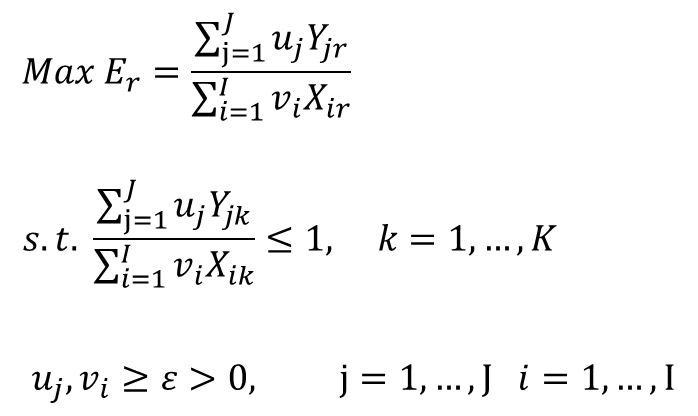
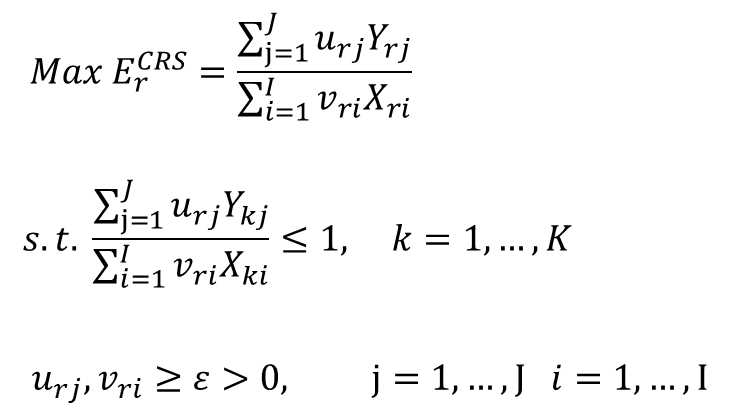
alter

diff --git a/CRS_Model/CRS_code.py b/CRS_Model/CRS_code.py
@@ -1,33 +1,34 @@
 from gurobipy import*
-DMU=['A','B','C','D','E']
-E={}
+
+E={}    
+I=2
+O=3
+#X、Y為各DMU的產出與投入
+DMU,X,Y=multidict({('A'):[[11,14],[2,2,1]],('B'):[[7,7],[1,1,1]],('C'):[[11,14],[1,1,2]],('D'):[[14,14],[2,3,1]],('E'):[[14,15],[3,2,3]]})
+
 for r in DMU:
-    
-    I=2
-    O=3
-    #X、Y為各DMU的產出與投入
-    DMU,X,Y=multidict({('A'):[[11,14],[2,2,1]],('B'):[[7,7],[1,1,1]],('C'):[[11,14],[1,1,2]],('D'):[[14,14],[2,3,1]],('E'):[[14,15],[3,2,3]]})
     
     v,u={},{}
 
     m=Model("CRS_model")
     
     for i in range(I):
-        v[i]=m.addVar(vtype=GRB.CONTINUOUS,name="v_%d"%i,lb=0.0001)
+        v[r,i]=m.addVar(vtype=GRB.CONTINUOUS,name="v_%s%d"%(r,i),lb=0.0001)
     
     for j in range(O):
-        u[j]=m.addVar(vtype=GRB.CONTINUOUS,name="u_%d"%j,lb=0.0001)
+        u[r,j]=m.addVar(vtype=GRB.CONTINUOUS,name="u_%s%d"%(r,j),lb=0.0001)
     
     m.update()
     
-    m.setObjective(quicksum(u[j]*Y[r][j] for j in range(O)),GRB.MAXIMIZE)
+    m.setObjective(quicksum(u[r,j]*Y[r][j] for j in range(O)),GRB.MAXIMIZE)
         
-    m.addConstr(quicksum(v[i]*X[r][i] for i in range(I))==1)
+    m.addConstr(quicksum(v[r,i]*X[r][i] for i in range(I))==1)
     for k in DMU:
-        m.addConstr(quicksum(u[j]*Y[k][j] for j in range(O))-quicksum(v[i]*X[k][i] for i in range(I))<=0)
+        m.addConstr(quicksum(u[r,j]*Y[k][j] for j in range(O))-quicksum(v[r,i]*X[k][i] for i in range(I))<=0)
     
     m.optimize()
-    E[r]="The efficiency of DMU %s:%4.3g"%(r,m.objVal)
+    E[r]="The efficiency of DMU %s:%0.3g"%(r,m.objVal)
+
     
 for r in DMU:
     print (E[r])

diff --git a/VAS_Model/VRS_code.py b/VAS_Model/VRS_code.py
@@ -12,23 +12,23 @@ for r in DMU:
     
     v,u={},{}
     for i in range(I):
-        v[i]=m.addVar(vtype=GRB.CONTINUOUS,name="v_%d"%i)
+        v[r,i]=m.addVar(vtype=GRB.CONTINUOUS,name="v_%s%d"%(r,i))
     
     for j in range(O):
-        u[j]=m.addVar(vtype=GRB.CONTINUOUS,name="u_%d"%j)
-    u0=m.addVar(lb=-1000,vtype=GRB.CONTINUOUS)
+        u[r,j]=m.addVar(vtype=GRB.CONTINUOUS,name="u_%s%d"%(r,j))
+    u[0,r]=m.addVar(lb=-1000,vtype=GRB.CONTINUOUS)
     
     m.update()
     
-    m.setObjective(quicksum(u[j]*Y[r][j] for j in range(O))-u0,GRB.MAXIMIZE)
+    m.setObjective(quicksum(u[r,j]*Y[r][j] for j in range(O))-u[0,r],GRB.MAXIMIZE)
         
-    m.addConstr(quicksum(v[i]*X[r][i] for i in range(I))==1)
+    m.addConstr(quicksum(v[r,i]*X[r][i] for i in range(I))==1)
     for k in DMU:
-        m.addConstr(quicksum(u[j]*Y[k][j] for j in range(O))-quicksum(v[i]*X[k][i] for i in range(I))-u0 <=0)
+        m.addConstr(quicksum(u[r,j]*Y[k][j] for j in range(O))-quicksum(v[r,i]*X[k][i] for i in range(I))-u[0,r] <=0)
     
     m.optimize()
     
-    E[r]="The efficiency of DMU %s:%4.3g"%(r,m.objVal)
+    E[r]="The efficiency of DMU %s:%0.3g"%(r,m.objVal)
 
 for r in DMU:
     print (E[r])
